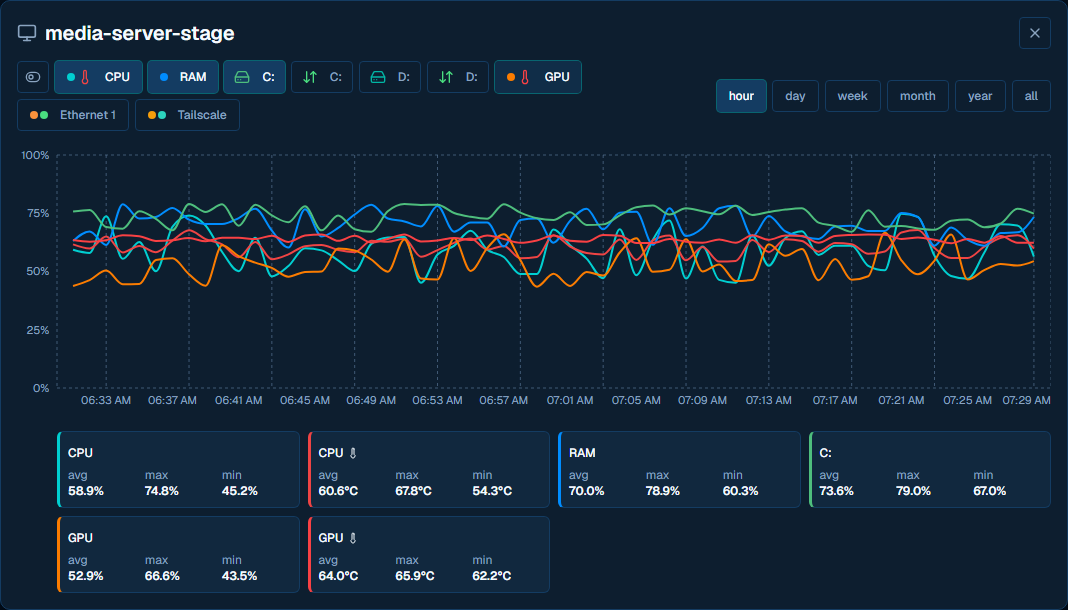
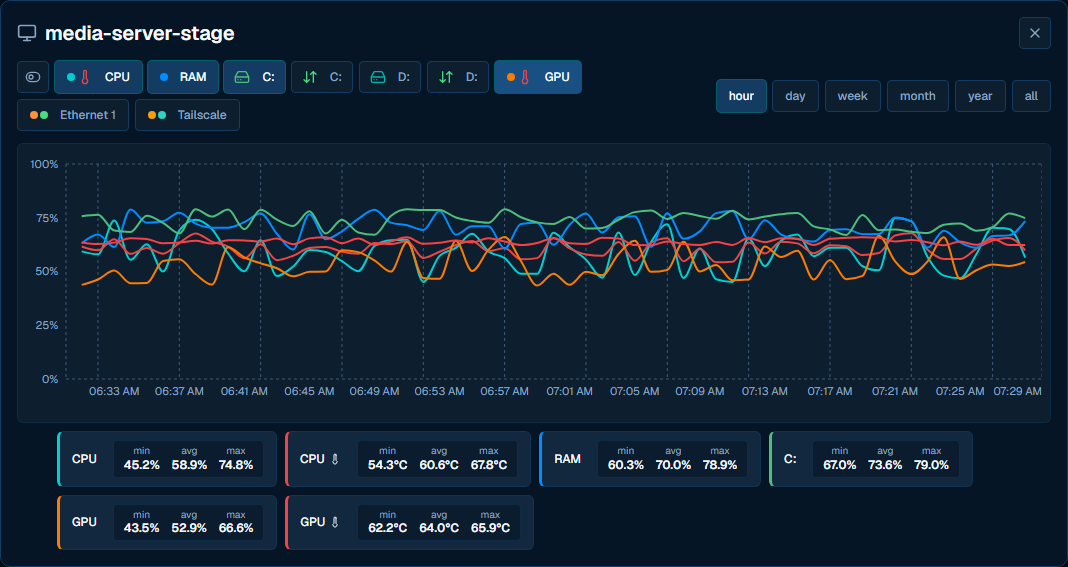
fix(web): repair the machine-detail screenshot spec's drifted selector
The spec walked up from `.recharts-surface` to an ancestor carrying both
`bg-card` and `border-border`. fcb7c1b2 moved MetricsDetailPanel's root
from `bg-card` to `bg-card-sunken` three days after the spec was written,
and put `bg-card` on the inner chart container — which is
`border-border/40`, so nothing satisfied both tokens any more. The chart
itself rendered fine; only the xpath failed.

Also removes a latent race: machine cards render recharts sparklines too,
so `.recharts-surface` first() could latch onto a card sparkline before
the panel mounted and then walk up the wrong subtree.

Locates the panel structurally instead, which auto-waits rather than
racing. docs-screens/machine-detail.png regenerated — the diff against
the May version is real UI evolution (inset chart container, denser
gridlines, compact stat tiles).

diff --git a/web/e2e/screenshots/machine-detail.spec.ts b/web/e2e/screenshots/machine-detail.spec.ts
@@ -32,13 +32,19 @@ test('machine detail docs screenshot', async ({ page }) => {
     await expect(card).toBeVisible();
 
     await card.getByText('cpu', { exact: true }).first().click();
-    const chart = page.locator('.recharts-surface').first();
-    await expect(chart).toBeVisible();
 
-    const panel = chart.locator(
-      'xpath=ancestor::*[contains(concat(" ", normalize-space(@class), " "), " bg-card ") and contains(concat(" ", normalize-space(@class), " "), " border-border ")][1]',
-    );
+    // MetricsDetailPanel is the only shadcn Card on /dashboard that is not a
+    // machine card and holds a recharts chart. Identify it structurally rather
+    // than by theme classes: the panel's background token moved bg-card ->
+    // bg-card-sunken in fcb7c1b2, which silently broke the old class-matching
+    // xpath. Machine cards also render recharts sparklines, so `.first()` on a
+    // bare `.recharts-surface` can latch onto a card before the panel mounts.
+    const panel = page
+      .locator('div[data-slot="card"]:not([data-testid="machine-card"])')
+      .filter({ has: page.locator('.recharts-surface') })
+      .first();
     await expect(panel).toBeVisible();
+    await expect(panel.locator('.recharts-surface').first()).toBeVisible();
     await expect(panel).toContainText(ctx.machineId!);
 
     await panel.getByRole('button', { name: /ram/i }).click();
